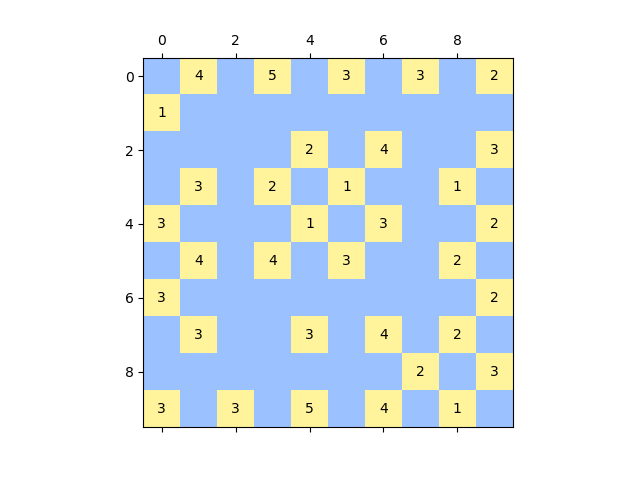
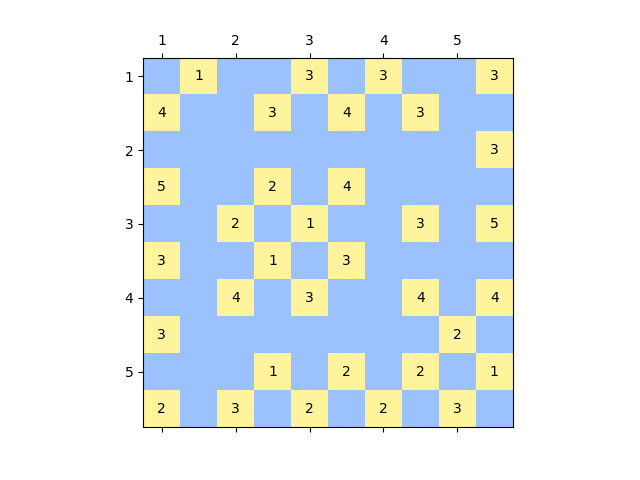
2 segment isolation constraints

diff --git a/Hashi/draw.py b/Hashi/draw.py
@@ -5,12 +5,19 @@ from matplotlib.colors import ListedColormap
 
 puzzles = [
     # Puzzle 1
-    ([(1, 1, 2), (1, 2, 3), (1, 4, 4), (1, 6, 2), (2, 7, 2), (3, 1, 1), (3, 2, 1), (3, 5, 1), (3, 6, 3), (3, 7, 3),
-      (4, 1, 2), (4, 4, 8), (4, 6, 5), (4, 7, 2), (5, 1, 3), (5, 3, 3), (5, 7, 1), (6, 3, 2), (6, 6, 3), (6, 7, 4),
-      (7, 1, 3), (7, 4, 3), (7, 5, 1), (7, 7, 2)], 7
-     ),
+    (
+        [(1, 1, 2), (1, 2, 3), (1, 4, 4), (1, 6, 2),
+         (2, 7, 2),
+         (3, 1, 1), (3, 2, 1), (3, 5, 1), (3, 6, 3), (3, 7, 3),
+         (4, 1, 2), (4, 4, 8), (4, 6, 5), (4, 7, 2),
+         (5, 1, 3), (5, 3, 3), (5, 7, 1),
+         (6, 3, 2), (6, 6, 3), (6, 7, 4),
+         (7, 1, 3), (7, 4, 3), (7, 5, 1), (7, 7, 2)]
+        , 7
+    ),
     # Puzzle 2
-    ([(1, 1, 2), (1, 3, 4), (1, 5, 3), (1, 7, 1), (1, 9, 2), (1, 12, 1), (2, 10, 3), (2, 13, 1),
+    ([(1, 1, 2), (1, 3, 4), (1, 5, 3), (1, 7, 1), (1, 9, 2), (1, 12, 1),
+      (2, 10, 3), (2, 13, 1),
       (3, 5, 2), (3, 7, 3), (3, 9, 2),
       (4, 1, 2), (4, 3, 3), (4, 6, 2), (4, 10, 3), (4, 12, 1),
       (5, 5, 2), (5, 7, 5), (5, 9, 3), (5, 11, 4),
@@ -47,22 +54,10 @@ puzzles = [
       (10, 3, 3), (10, 5, 5), (10, 7, 4), (10, 9, 1)], 10
      ),
     # Puzzle 6
-    ([(1, 2, 3), (1, 4, 3), (1, 6, 4), (1, 8, 5), (1, 11, 4), (1, 14, 4), (1, 17, 3), (1, 20, 3), (2, 1, 2), (2, 3, 2),
-      (2, 5, 5), (2, 7, 2), (3, 2, 4), (3, 4, 1), (3, 8, 3), (3, 10, 3), (3, 12, 3), (3, 14, 5), (3, 16, 3), (3, 19, 2),
-      (4, 1, 4), (4, 3, 3), (4, 6, 3), (4, 9, 2), (4, 11, 3), (4, 13, 3), (4, 15, 2), (4, 17, 1), (4, 20, 3), (5, 2, 4),
-      (5, 4, 3), (5, 7, 1), (5, 10, 5), (5, 12, 4), (5, 14, 3), (5, 16, 4), (5, 18, 4), (6, 3, 3), (6, 5, 3),
-      (6, 13, 2), (6, 15, 5), (6, 17, 3), (6, 19, 2), (7, 1, 4), (7, 4, 4), (7, 6, 5), (7, 9, 2), (7, 12, 4),
-      (7, 14, 2), (7, 16, 2), (7, 18, 4), (7, 20, 3), (8, 2, 4), (8, 5, 1), (8, 10, 2), (8, 13, 1), (8, 15, 3),
-      (8, 17, 2), (8, 19, 2), (9, 1, 4), (9, 4, 5), (9, 6, 5), (9, 9, 6), (9, 12, 6), (9, 14, 2), (9, 16, 4),
-      (10, 2, 4), (10, 5, 4), (10, 8, 2), (10, 13, 2), (10, 15, 3), (10, 18, 3), (10, 20, 2), (11, 1, 3), (11, 4, 4),
-      (11, 7, 1), (11, 9, 5), (11, 11, 2), (11, 16, 3), (11, 19, 3), (12, 3, 3), (12, 5, 5), (12, 8, 3), (12, 10, 3),
-      (12, 12, 6), (12, 15, 3), (12, 18, 3), (13, 1, 2), (13, 4, 4), (13, 6, 2), (13, 13, 2), (13, 16, 2), (13, 20, 3),
-      (14, 2, 3), (14, 5, 1), (14, 7, 3), (14, 9, 4), (14, 11, 1), (14, 15, 4), (14, 18, 4), (15, 1, 2), (15, 4, 3),
-      (15, 6, 3), (15, 13, 1), (15, 17, 1), (15, 19, 3), (16, 3, 4), (16, 5, 4), (16, 7, 6), (16, 9, 6), (16, 12, 7),
-      (16, 15, 6), (16, 18, 2), (16, 20, 4), (17, 2, 3), (17, 4, 4), (17, 10, 2), (17, 13, 1), (17, 16, 3), (17, 19, 2),
-      (18, 1, 4), (18, 3, 4), (18, 6, 2), (18, 8, 3), (18, 11, 2), (18, 18, 2), (18, 20, 4), (19, 13, 3), (19, 15, 4),
-      (19, 19, 1), (20, 1, 4), (20, 3, 5), (20, 5, 2), (20, 8, 3), (20, 10, 3), (20, 12, 4), (20, 14, 3), (20, 16, 5),
-      (20, 18, 6), (20, 20, 4)], 20
+    ([(1, 2, 4), (1, 4, 5), (1, 6, 3), (1, 8, 3), (1, 10, 2), (2, 1, 1), (3, 5, 2), (3, 7, 4), (3, 10, 3), (4, 2, 3),
+      (4, 4, 2), (4, 6, 1), (4, 9, 1), (5, 1, 3), (5, 5, 1), (5, 7, 3), (5, 10, 2), (6, 2, 4), (6, 4, 4), (6, 6, 3),
+      (6, 9, 2), (7, 1, 3), (7, 10, 2), (8, 2, 3), (8, 5, 3), (8, 7, 4), (8, 9, 2), (9, 8, 2), (9, 10, 3), (10, 1, 3),
+      (10, 3, 3), (10, 5, 5), (10, 7, 4), (10, 9, 1)], 20
      ),
     # Puzzle 7
     (
@@ -78,7 +73,7 @@ def draw_puzzles():
         a = np.zeros((size, size))
 
         for cell in board:
-            a[cell[0] - 1][cell[1] - 1] = cell[2]
+            a[cell[1] - 1][cell[0] - 1] = cell[2]
 
         fig, ax = plt.subplots()
 
@@ -91,6 +86,8 @@ def draw_puzzles():
 
         newcmp = ListedColormap(newcolors)
 
+        ax.set_xticklabels([x for x in range(0, size + 1)])
+        ax.set_yticklabels([x for x in range(0, size + 1)])
         ax.matshow(a, cmap=newcmp)
 
         for i in range(size):
@@ -99,6 +96,7 @@ def draw_puzzles():
                 if c > 0:
                     ax.text(i, j, str(int(c)), va='center', ha='center')
 
-        plt.savefig('puzzles/puzzle{}.png'.format(Id+1))
+        plt.savefig('puzzles/puzzle{}.png'.format(Id + 1))
+
 
 draw_puzzles()
